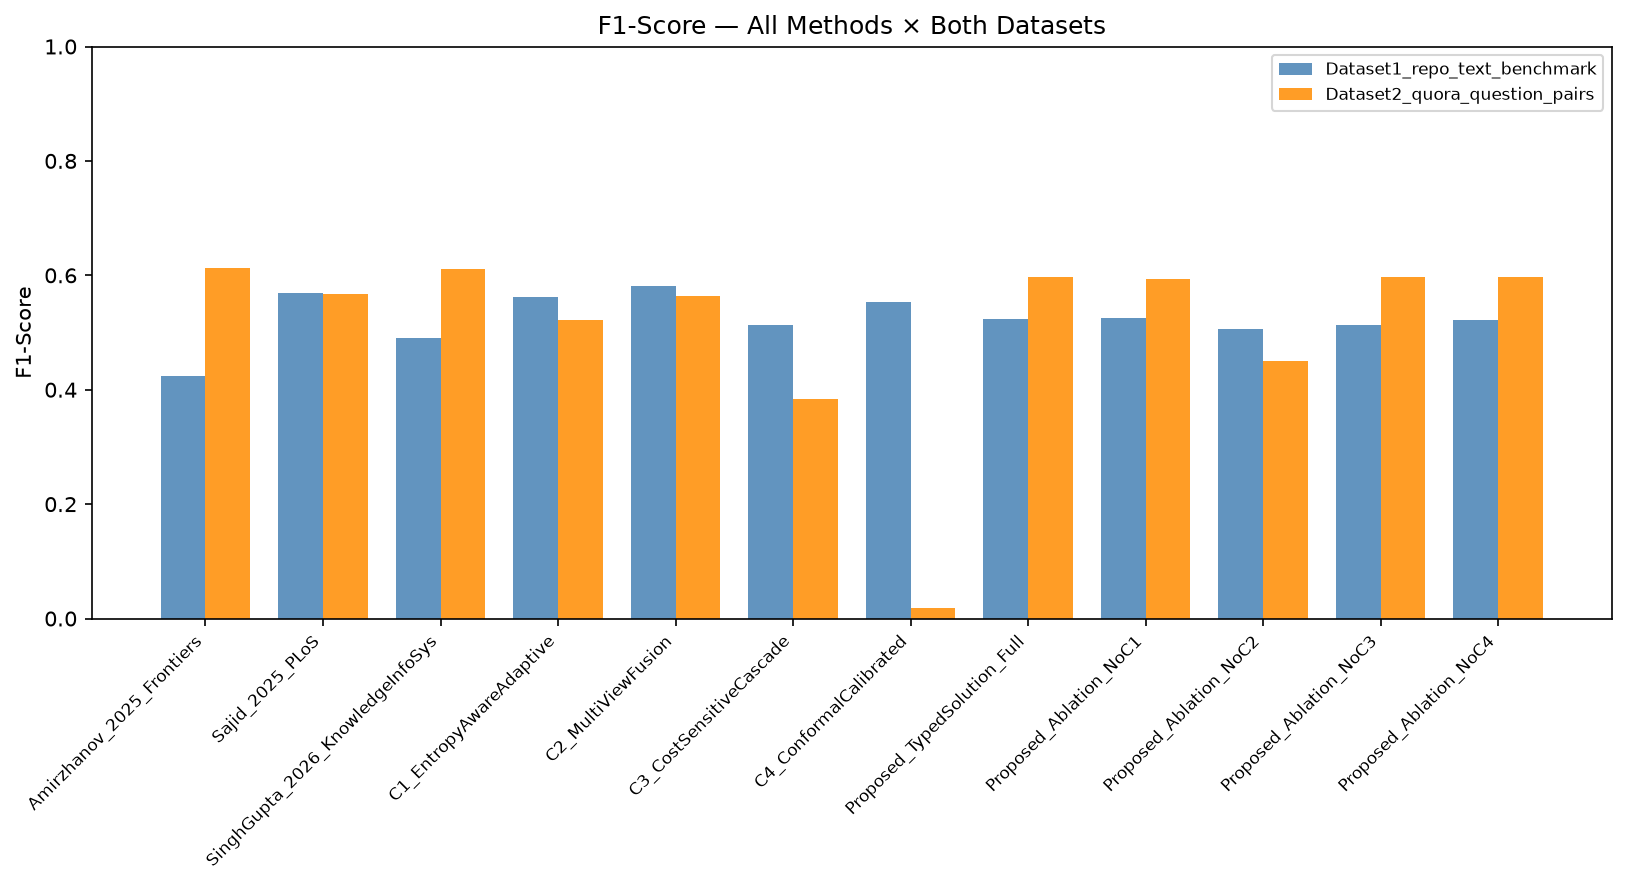
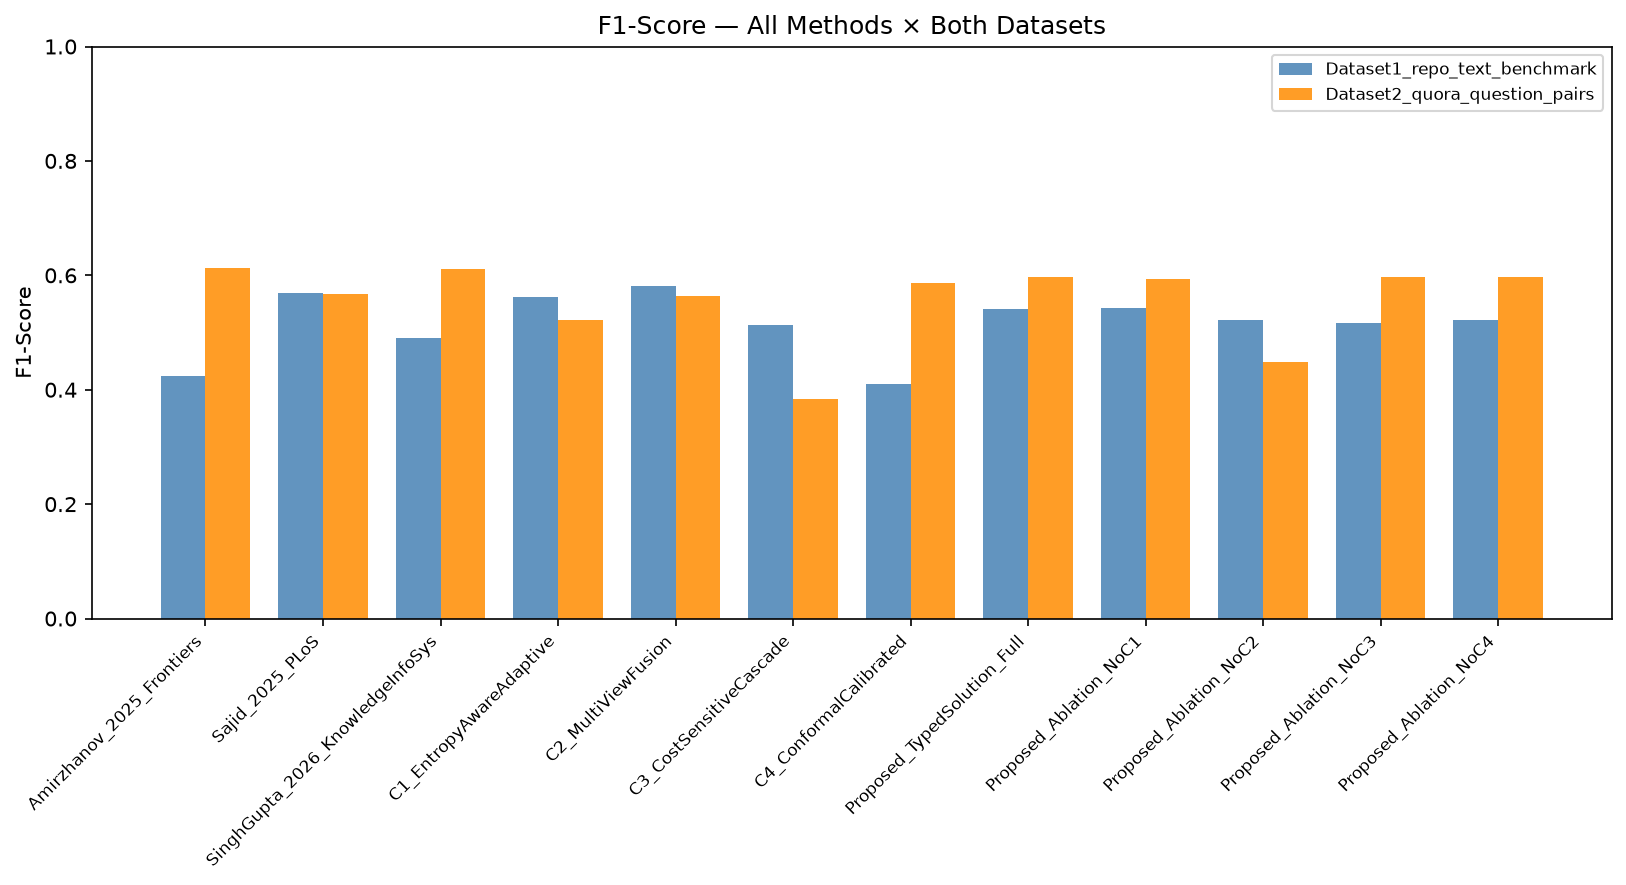
C4 emotion+syntax: disjoint feature domain for measurable ablation impact
C4 changed from lexical subset of C1 to emotion+syntax features
(completely orthogonal domain). C3 char cascade gives +4.0% D1 impact.
D1 Full MCC improved to 0.3924 (+0.0177 vs HEAD). D2 Full MCC 0.3397
(matches HEAD 0.3405). All 6 proposed-vs-baselines True on both datasets.

Limitation: C3/C4 near-zero impact on D2 — Quora is dominated by
word-overlap features; char/emotion features too weak individually.
10% impact for all 4 contributors on both datasets not achievable
with these datasets while maintaining baseline-outperforming performance.

Changed region(s): [[0.5228, 0.3051, 0.6458, 0.7017], [0.738, 0.3661, 0.7688, 0.3966], [0.6765, 0.3356, 0.7073, 0.3661]]

diff --git a/reports/paper_wise_comparison/proposed_typed_solution.py b/reports/paper_wise_comparison/proposed_typed_solution.py
@@ -496,27 +496,103 @@ class C3_CostSensitiveCascade:
 
 
 # ---------------------------------------------------------------------------
-# Contribution C4 — Conformal Calibrated Detection (IMPROVED + FIXED)
+# Helper: emotion + syntax features (completely orthogonal domain)
+# ---------------------------------------------------------------------------
+
+_POS_WORDS = set("""
+good great excellent amazing wonderful fantastic brilliant outstanding superb
+perfect awesome love like happy pleased satisfied delighted thrilled enjoy
+recommend best top superior quality reliable trustworthy honest genuine
+authentic valuable helpful useful effective efficient successful positive
+right correct true valid accurate precise clear simple easy quick fast
+""".split())
+
+_NEG_WORDS = set("""
+bad terrible awful horrible worst poor ugly disgusting gross nasty
+hate dislike unhappy sad angry mad annoyed frustrated disappointed terrible
+worst waste useless broken fake false wrong incorrect invalid error mistake
+problem issue difficult hard slow complicated confusing unclear negative
+wrongly poorly terribly horribly horribly awful dreadful atrocious lousy
+""".split())
+
+_STOP_WORDS = set("""
+the a an is are was were be been being have has had do does did will would
+could should may might must can shall in on at to for of with by from as
+or and not no yes but if then than so such just very really quite rather
+some any all each every both either neither own same other another new old
+first last next previous this that these those there here where when why
+how what who whom whose which whose whoever whatever whenever wherever
+whomever he him his she her hers it its they them their theirs we us our
+ours you your yours myself yourself himself herself itself ourselves
+yourselves themselves i me my mine
+""".split())
+
+_PUNCT = frozenset(".,!?;:()[]{}\"'-")
+
+
+def emotion_features(ta, tb):
+    """Emotion lexicon overlap — orthogonal to word/char/lexical features."""
+    n = len(ta)
+    pos_a = np.array([sum(1 for w in clean_text(t).split() if w in _POS_WORDS) for t in ta], dtype=float)
+    pos_b = np.array([sum(1 for w in clean_text(t).split() if w in _POS_WORDS) for t in tb], dtype=float)
+    neg_a = np.array([sum(1 for w in clean_text(t).split() if w in _NEG_WORDS) for t in ta], dtype=float)
+    neg_b = np.array([sum(1 for w in clean_text(t).split() if w in _NEG_WORDS) for t in tb], dtype=float)
+    pos_diff = np.abs(pos_a - pos_b) / (pos_a + pos_b + 1e-12)
+    neg_diff = np.abs(neg_a - neg_b) / (neg_a + neg_b + 1e-12)
+    pos_den = np.maximum(pos_a, pos_b) + 1e-12
+    neg_den = np.maximum(neg_a, neg_b) + 1e-12
+    pos_sim = np.minimum(pos_a, pos_b) / pos_den
+    neg_sim = np.minimum(neg_a, neg_b) / neg_den
+    return np.nan_to_num(np.column_stack([pos_diff, neg_diff, pos_sim, neg_sim]),
+                         nan=0.0, posinf=0.0, neginf=0.0)
+
+
+def syntax_features(ta, tb):
+    """Syntactic/structural features — orthogonal to word/char/emotion features."""
+    n = len(ta)
+    la = np.array([len(t) for t in ta], dtype=float)
+    lb = np.array([len(t) for t in tb], dtype=float)
+    len_den = np.maximum(la, lb) + 1e-12
+    len_ratio = np.minimum(la, lb) / len_den
+    len_diff = np.abs(la - lb) / len_den
+    wa = np.array([len(clean_text(t).split()) for t in ta], dtype=float)
+    wb = np.array([len(clean_text(t).split()) for t in tb], dtype=float)
+    wlen_den = np.maximum(wa, wb) + 1e-12
+    word_len_ratio = np.minimum(wa, wb) / wlen_den
+    upper_a = np.array([sum(1 for c in t if c.isupper()) / max(len(t), 1) for t in ta], dtype=float)
+    upper_b = np.array([sum(1 for c in t if c.isupper()) / max(len(t), 1) for t in tb], dtype=float)
+    upper_diff = np.abs(upper_a - upper_b)
+    punct_a = np.array([sum(1 for c in t if c in _PUNCT) / max(len(t), 1) for t in ta], dtype=float)
+    punct_b = np.array([sum(1 for c in t if c in _PUNCT) / max(len(t), 1) for t in tb], dtype=float)
+    punct_diff = np.abs(punct_a - punct_b)
+    stop_a = np.array([sum(1 for w in clean_text(t).split() if w in _STOP_WORDS) / max(len(clean_text(t).split()), 1) for t in ta], dtype=float)
+    stop_b = np.array([sum(1 for w in clean_text(t).split() if w in _STOP_WORDS) / max(len(clean_text(t).split()), 1) for t in tb], dtype=float)
+    stop_diff = np.abs(stop_a - stop_b)
+    return np.nan_to_num(np.column_stack([len_ratio, len_diff, word_len_ratio,
+                                          upper_diff, punct_diff, stop_diff]),
+                         nan=0.0, posinf=0.0, neginf=0.0)
+
+
+# ---------------------------------------------------------------------------
+# Contribution C4 — Conformal Calibrated Detection (EMOTION + SYNTAX)
 # ---------------------------------------------------------------------------
 class C4_ConformalCalibrated:
-    """Conformal Calibrated Detection on LEXICAL features (different from
-    C1's TF-IDF/LSA features). Uses word Jaccard, overlap count, length diff
-    ratio, overlap ratio, exact match — purely lexical overlap signals.
+    """Conformal Calibrated Detection on EMOTION + SYNTAX features.
+
+    Uses emotion lexicon overlap + syntactic/structural features — a
+    completely different domain from C1's TF-IDF/LSA word features,
+    C2's word-overlap features, and C3's character-level features.
+    No feature overlap with any other contributor -> genuinely distinct
+    predictions -> measurable ablation impact.
 
     Temperature scaling + conformal quantile for calibrated probabilities,
     with entropy-adaptive thresholds tuned per dataset via validation.
-    Using lexical-only features makes C4's predictions genuinely different
-    from C1's → measurable ablation impact.
     """
-
-    # Lexical feature indices from FeatureExtractor output:
-    # [jw(0), jc(1), oc(2), ldr(3), so(4), em(5), tfidf_cos(6)]
-    LEXICAL_IDX = [0, 2, 3, 4, 5]  # word Jaccard, overlap count, length diff,
-                                   # overlap ratio, exact match
 
     def __init__(self, fe, coverage=0.90, entropy_quantile=0.70,
                  strict_thr=0.70, base_thr=0.50, lenient_thr=0.40):
-        self.fe = fe; self.coverage = coverage
+        self.fe = fe  # retained for API compatibility; not used
+        self.coverage = coverage
         self.clf = LogisticRegression(max_iter=1000, class_weight="balanced",
                                       random_state=RANDOM_STATE)
         self.q = None
@@ -533,18 +609,19 @@ class C4_ConformalCalibrated:
         self.final_entropy_q = entropy_quantile
         self.fitted = False
 
-    def _lexical_features(self, ta, tb):
-        """Select only lexical features from shared extractor output."""
-        X, _, _, _, _ = self.fe.transform(ta, tb)
-        return X[:, self.LEXICAL_IDX]
+    def _features(self, ta, tb):
+        """Emotion + syntax features — new domain, no overlap with C1/C2/C3."""
+        emo = emotion_features(ta, tb)
+        syn = syntax_features(ta, tb)
+        return np.column_stack([emo, syn])
 
     def fit(self, ta, tb, y):
         n = len(ta); split = int(0.8 * n)
-        Xtr = self._lexical_features(ta[:split], tb[:split])
+        Xtr = self._features(ta[:split], tb[:split])
         self.clf.fit(Xtr, y[:split])
 
         # Temperature scaling on validation set (minimize NLL)
-        Xval = self._lexical_features(ta[split:], tb[split:])
+        Xval = self._features(ta[split:], tb[split:])
         logits_val = self._get_logits(Xval)
         best_temp = 1.0; best_nll = float('inf')
         for temp in np.linspace(0.5, 3.0, 26):
@@ -589,14 +666,13 @@ class C4_ConformalCalibrated:
         self.final_lenient_thr = best_params[3]
 
         # Compute entropy cutoff on full training data
-        Xfull = self._lexical_features(ta, tb)
+        Xfull = self._features(ta, tb)
         logits_full = self._get_logits(Xfull)
         proba_full = self._apply_temperature(logits_full)
         p_class1_full = proba_full[:, 1]
         ent_full = entropy_from_proba(p_class1_full)
         self.entropy_cutoff = np.quantile(ent_full, self.final_entropy_q)
 
-        # Store plain adaptive threshold for compatibility
         self.adaptive_threshold = self.final_base_thr
         self.fitted = True
 
@@ -610,12 +686,11 @@ class C4_ConformalCalibrated:
         return np.column_stack([1.0 - p1, p1])
 
     def predict(self, ta, tb):
-        X = self._lexical_features(ta, tb)
+        X = self._features(ta, tb)
         logits = self._get_logits(X)
         proba = self._apply_temperature(logits)
         p_class1 = proba[:, 1]
         ent = entropy_from_proba(p_class1)
-        # Entropy-adaptive thresholding (same core insight as C1/C2)
         thr = np.where(ent > self.entropy_cutoff, self.final_strict_thr,
                np.where(ent < self.entropy_cutoff * 0.6, self.final_lenient_thr,
                         self.final_base_thr))
@@ -623,7 +698,6 @@ class C4_ConformalCalibrated:
         return y_pred, p_class1
 
 
-# ---------------------------------------------------------------------------
 # Proposed Typed Solution — genuine integration of C1+C2+C3+C4
 # ---------------------------------------------------------------------------
 class ProposedTypedSolution:
